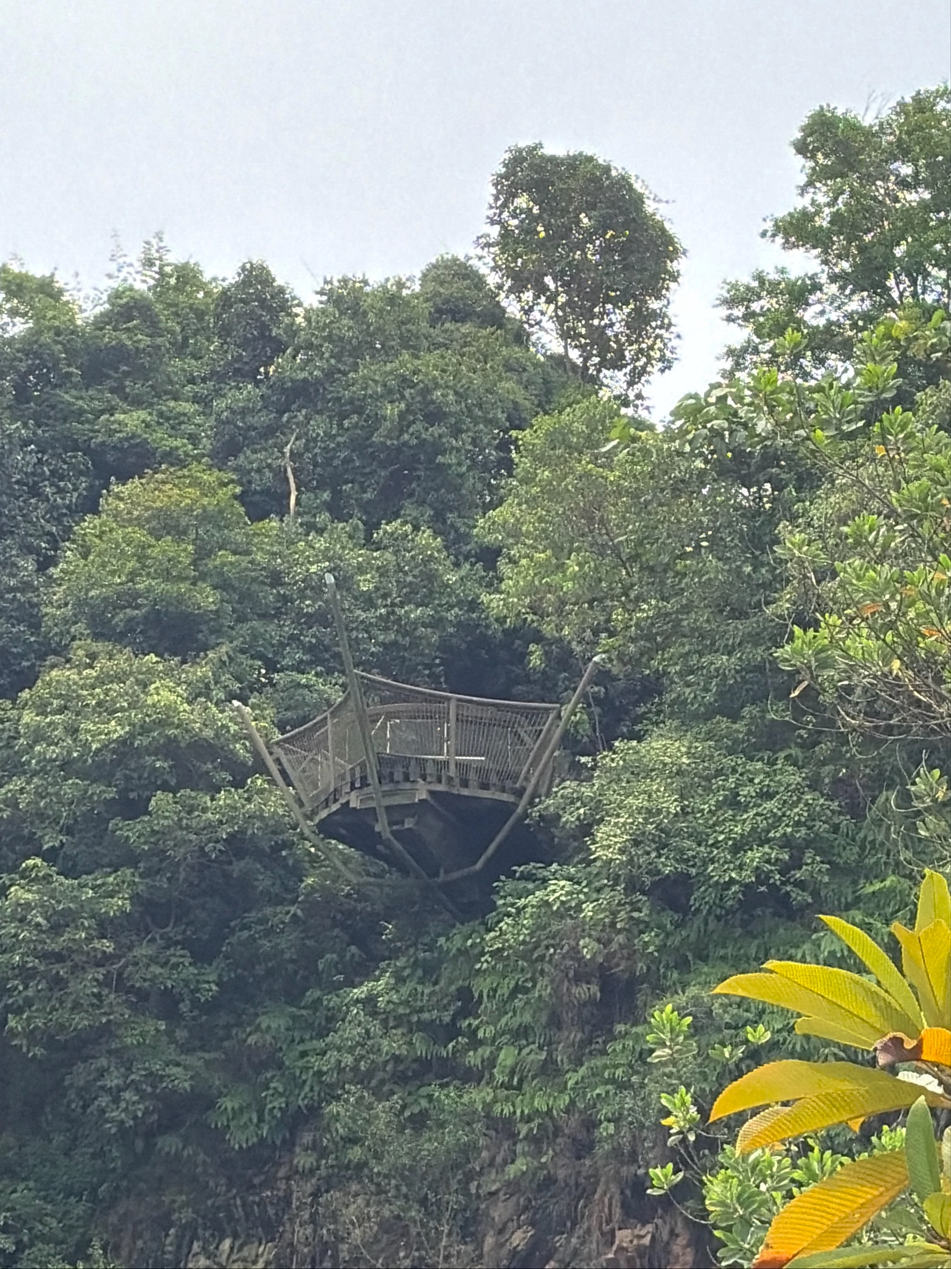
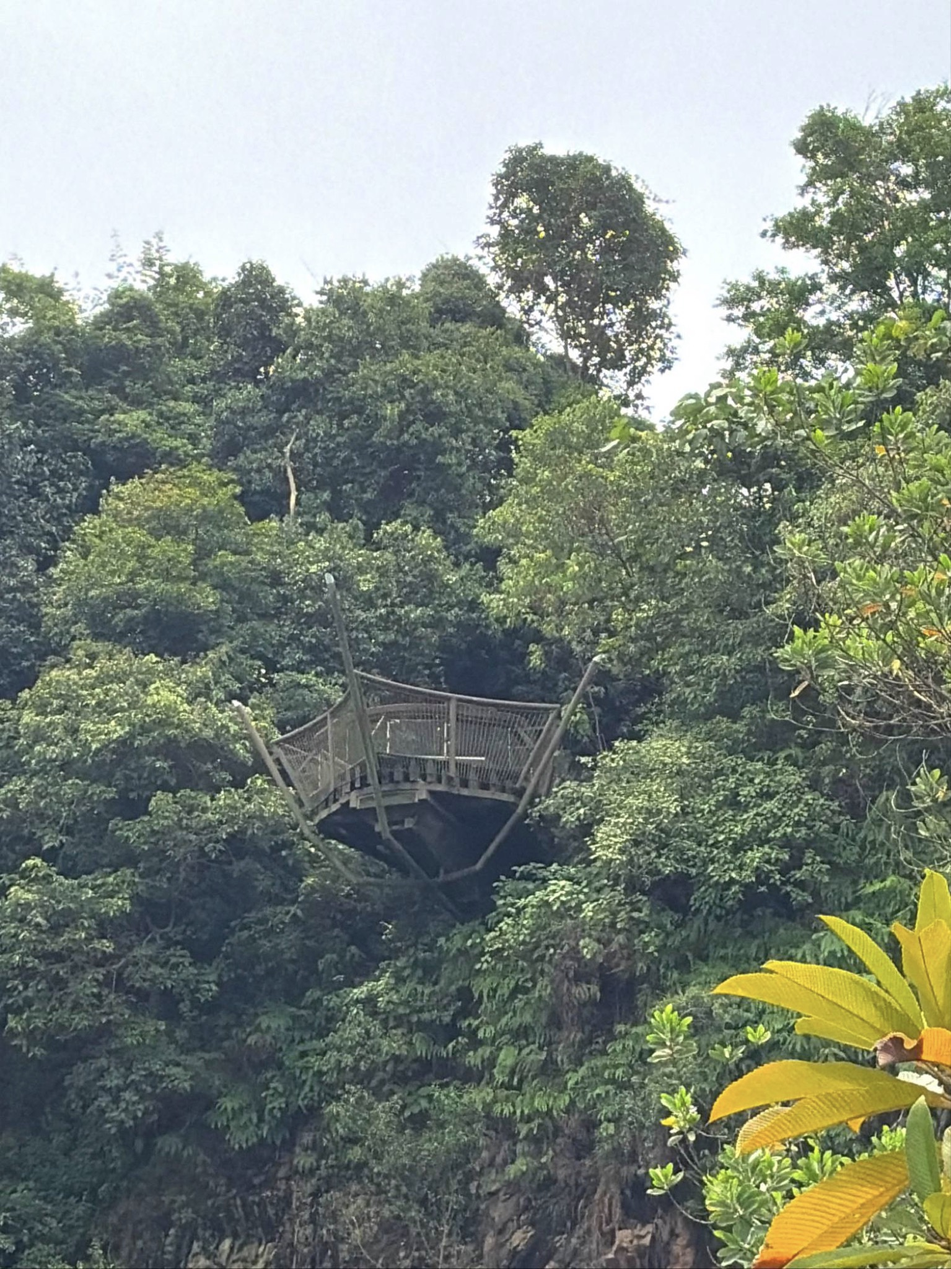
PhotoEditKit 1.1.8

Changed region(s): [[0.7655, 0.6875, 1.0, 0.8438], [0.7349, 0.8438, 0.9186, 1.0], [0.9798, 0.9375, 1.0, 0.9688]]

diff --git a/Package.swift b/Package.swift
@@ -12,8 +12,8 @@ let package = Package(
     targets: [
         .binaryTarget(
             name: "PhotoEditKit",
-            url: "https://github.com/8kdesign/PhotoEditKit/releases/download/1.1.7/PhotoEditKit.xcframework.zip",
[1 lines of base64/hex data omitted]
+            url: "https://github.com/8kdesign/PhotoEditKit/releases/download/1.1.8/PhotoEditKit.xcframework.zip",
[1 lines of base64/hex data omitted]
         )
     ]
 )

diff --git a/README.md b/README.md
@@ -32,7 +32,8 @@ if let config = AIPostProcessingHelper.topSuggestion(for: photo, metadata: prope
 
 ## Features
 
-- **AI edit suggestions.** Up to ten ranked looks per photo, each with a
+- **AI edit suggestions.** Up to ten ranked looks per photo (you can set the
+  limit), each with a
   title and a thumbnail, or a single best edit. A photo that's already good
   gets `nil` rather than a style it didn't ask for.
 - **Corrections and styles.** Brighten, Lift Shadows, Recover Highlights,
@@ -107,7 +108,7 @@ sequenceDiagram
     EC-->>-UI: prepare returns
     Note left of E: ranks the looks, using what this<br>user picked on similar photos
     E-->>EC: suggestions
-    EC-->>UI: aiProcessingState = .done(result:)<br>up to ten looks with titles and thumbnails
+    EC-->>UI: aiProcessingState = .done(result:)<br>up to ten looks (maxSuggestions) with titles and thumbnails
 
     loop Every edit
         UI->>EC: applySuggestion, previewConfig,<br>addConfig, undoConfig
@@ -281,7 +282,7 @@ let gentler = EditConfig(properties: properties, crop: config.crop, editRotation
 | `.temperature` | −1 … 1 | positive is warmer |
 | `.tint` | −1 … 1 | positive is more magenta, negative greener |
 | `.shadowWarmth` | −1 … 1 | warms or cools the shadows only |
-| `.sharpness` | 0 … 2 | |
+| `.sharpness` | −1 … 1 | positive sharpens; negative flattens fine detail into painted patches |
 | `.noiseReduction` | 0 … 1 | |
 | `.vignette` | −1 … 1 | |
 | `.boostRed` `.boostYellow` `.boostGreen` `.boostCyan` `.boostBlue` `.boostMagenta` | −1 … 1 | per-colour saturation |
@@ -380,10 +381,19 @@ for suggestion in suggestions {
 }
 ```
 
-Returns up to ten suggestions, best first. Pass `offerOriginal: true` to let
+Returns up to ten suggestions, best first; pass `maxSuggestions:` for another
+limit (at least 1; `EditController.maxSuggestions` with the controller). A
+smaller limit keeps the best of the same list, in the same order. Pass `offerOriginal: true` to let
 the list lead with an **Original** suggestion (no edit) when no look improves
 on the photo as it is; it is off by default. With `EditController`, set
-`offersOriginalSuggestion` before `processAI()`. Pass the photo at full resolution,
+`offersOriginalSuggestion` before `processAI()`. Pass `includeThemes: true` to
+also get [themes](#themes) that suit the photo; they come after the other
+suggestions, outside the limit, with `isTheme` set, and never change which other
+suggestions are offered or their order. Off by default; with `EditController`,
+set `offersThemeSuggestions`. Pass `disabledLooks:` (a set of `AILook`, such
+as `[.trueColor]`) to leave looks out; the next best take their place. With
+`EditController`, set `disabledLooks`; `topSuggestion(for:metadata:disabledLooks:)`
+takes it too. Pass the photo at full resolution,
 which is what the grain measurement needs; its `imageOrientation` is honoured.
 It took about 0.2 s on a 12 MP photo in the simulator; budget more on older
 devices. If the calling `Task` is
@@ -508,6 +518,16 @@ balanced colour gets neither.
 | Matte | A faded, film-print style: softened blacks, gentler colour and a light vignette. Fades more on a contrasty photo, less on a flat one. |
 | Soft | A gentle, warm finish with low contrast. |
 | Spotlight | Darkens the edges to draw the eye to the middle of the photo. Leaves colour alone. |
+
+### Themes
+
+Themes restyle a photo as something else rather than improve it. They are only
+offered with `includeThemes: true`, always after the corrections and styles.
+
+| Theme | What it does |
+|---|---|
+| Manga | A hand-painted anime look: bright, open shadows, soft highlights, clean sky blues and leaf greens, and fine detail flattened into painted patches (negative `.sharpness`). City, nature and sky photos in daylight only, not sunsets or night. |
+| B&W | Black and white, with contrast, highlights and shadows set for the photo; a warm sunset sky is darkened as a blue filter does on film (`EditSettingType.monochromeFilter`, no slider of its own). Only offered on photos with strong contrast. |
 
 ### Every recipe
 
